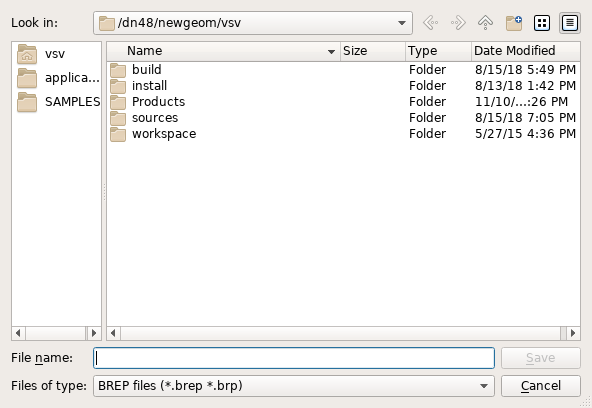
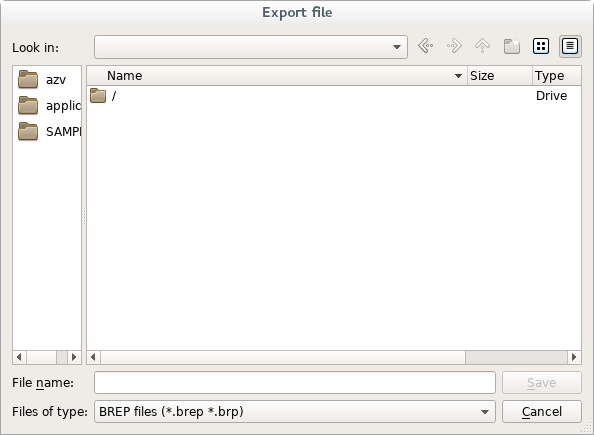
Issue #3145: Update Import/Export help pages

Changed region(s): [[0.0, 0.0, 1.0, 1.0]]

diff --git a/src/ExchangePlugin/doc/examples/export_part.py b/src/ExchangePlugin/doc/examples/export_part.py
@@ -1,0 +1,10 @@
+from salome.shaper import model
+
+model.begin()
+partSet = model.moduleDocument()
+Part_1 = model.addPart(partSet)
+Part_1_doc = Part_1.document()
+Cylinder_1 = model.addCylinder(Part_1_doc, model.selection("VERTEX", "PartSet/Origin"), model.selection("EDGE", "PartSet/OZ"), 5, 10)
+Box_1 = model.addBox(Part_1_doc, 10, 10, 10)
+Export_1 = model.exportPart(Part_1_doc, "~/box.shaperpart", [model.selection("SOLID", "Box_1_1")])
+model.end()

diff --git a/src/ExchangePlugin/doc/exportFeature.rst b/src/ExchangePlugin/doc/exportFeature.rst
@@ -3,12 +3,77 @@
 Export
 ======
 
-The  export feature allows exporting objects from the current study to an external file.
+The export feature allows exporting objects from the current study to an external file. The following sections show the different ways to export objects.
 
-It is possible to export objects to files in the following formats: BREP, STEP, IGES, XAO. To export objects to a file:
+Export PartSet
+--------------
 
-#. select in the Main Menu *Part - > Export* item  or
-#. click |export.icon| **Export** button in the toolbar.
+To export the full study in SHAPER native format (``*.shaper``) select in the Main Menu *File -> Export -> Part Set...* item.
+The **Export file** dialog will be opened:
+
+.. image:: images/ExportNativeFileDlg.png
+   :align: center
+	
+.. centered::
+   **Dialog box for export to SHAPER native format**
+
+Specify file name and press **Save** button to export the file. **Cancel** button cancels the operation.
+
+
+Export Part
+-----------
+
+It allows to export the specified results including the sequence of all operations which affect the selected objects.
+To export results in binary format (``*.shaperpart``) select in the Main Menu *File -> Export -> Part...* item.
+
+The following property panel will be opened:
+
+.. image:: images/ExportPart_panel.png
+   :align: center
+	
+.. centered::
+   **Export Part property panel**
+
+The file name and path can be defined in **Export file** field by direct input or browsing with **'...'** button, which opens **Export file** dialog box:
+
+.. image:: images/ExportPartFileDlg.png
+   :align: center
+	
+.. centered::
+   **Dialog box to export part of the model**
+
+Selection list in the property panel contains a list of exported objects which can be selected in a viewer or object browser.
+In case of the list is empty, all active results in the current Part will be exported.
+If the PartSet is active, only results (construction elements) of this PartSet may be selected for the export, but not results of Parts.
+
+*Note:* It is forbidden to export features that include references to external elements other than default elements (origin or main axes and planes).
+
+
+**Apply** button exports the file.
+  
+**Cancel** button cancels the operation.
+
+**TUI Command**:
+
+.. py:function:: model.exportPart(Part_doc, FileNameString, ObjectsList)
+
+    :param part: The current part object
+    :param string: The file name
+    :param list: A list of exporting objects, if necessary
+
+Result
+""""""
+
+The Result of operation is an exported file.
+
+**See Also** a sample TUI Script of :ref:`tui_export_part` operation.
+
+
+Export to CAD format
+--------------------
+
+It is possible to export objects to files in the following CAD-neutral formats: BREP, STEP, IGES, XAO.
+To export objects to a file select in the Main Menu *File -> Export -> To CAD  formats...* item.
 
 The following property panel will be opened:
 
@@ -24,7 +89,7 @@ In this panel, it is necessary to select desirable format of export file. It can
    :align: center
 	
 .. centered::
-   **Export file dialog box**
+   **Dialog box tp export in CAD-neutral format**
 
 Selection list in the property panel contains a list of exported objects which can be selected in a viewer or object browser.
 
@@ -39,6 +104,15 @@ Selection list in the property panel contains a list of exported objects which c
     :param part: The current part object
     :param string: The file name
     :param list: A list of exporting objects
+
+
+.. py:function:: model.exportToXAO(Part_doc, FileNameString, [ObjectsList, Author, GeometryName])
+
+    :param part: The current part object
+    :param string: The file name
+    :param list: A list of exporting objects, if necessary
+    :param string: The name of the author 
+    :param string: The name for the shape processed in GEOMETRY module
 
 Result
 """"""

diff --git a/src/ExchangePlugin/doc/importFeature.rst b/src/ExchangePlugin/doc/importFeature.rst
@@ -5,10 +5,63 @@ Import
 
 The Import feature allows importing an external file into a current study.
 
-It is possible to import files in the following formats: BREP, STEP, IGES, XAO. To import a file into active part:
+Import PartSet
+--------------
 
-#. select in the Main Menu *Part - > Import* item  or
-#. click |import.icon| **Import** button in the toolbar.
+To open a study previously saved in SHAPER native format, select in the Main Menu *File -> Import -> Part Set...* item.
+The current study will be closed, so the action dialog will be opened to choose whether the changes should be saved.
+After that the following open file dialog will be opened:
+
+.. image:: images/ImportPartFileDlg.png
+   :align: center
+	
+.. centered::
+   **Dialog box to open SHAPER native file**
+
+Select file and press **Open** button to load the file. **Cancel** button cancels the operation.
+
+
+Import Part
+-----------
+
+To import the previously stored file in the current part, select in the Main Menu *File -> Import -> Part...* item.
+
+The following property panel will be opened:
+
+.. image:: images/ImportPart_panel.png
+   :align: center
+	
+.. centered::
+   **Import Part property panel**
+
+In this panel it is possible to enter a file name directly or press **'...'** button and browse it with help of import file dialog box:
+
+.. image:: images/ImportPartFileDlg.png
+   :align: center
+	
+.. centered::
+   **Dialog box to import Part**
+
+The import will be performed within the active part. If no part is active, the possible targets to import will be proposed in **Import to** combobox, which contains the list of existing parts, PartSet or a new part creation option.
+  
+**Apply** button imports the file.
+  
+**Cancel** button cancels the operation.
+
+**TUI Command**:
+
+.. py:function:: model.importPart(Doc, FileNameString, [PrevFeature])
+
+    :param part: The current part object
+    :param string: A file name string
+    :param reference: The feature after which the imported entities should be inserted
+
+
+Import from CAD formats
+-----------------------
+
+It is possible to import files in the following CAD-neutral formats: BREP, STEP, IGES, XAO.
+To import a file into active part select in the Main Menu *File -> Import -> From CAD format...* item.
 
 The following property panel will be opened:
 
@@ -18,13 +71,15 @@ The following property panel will be opened:
 .. centered::
    **Import property panel**
 
+The **Import to** combobox provides the list of destinations (PartSet, existing Part or a new Part).
+
 In this panel it is possible to enter a file name directly or press **'...'** button and browse it with help of import file dialog box:
 
 .. image:: images/OpenFileDlg.png
    :align: center
 	
 .. centered::
-   **Import file dialog box**
+   **Dialog box to import CAD-neutral format**
   
 **Apply** button imports the file.
   

diff --git a/src/ExchangePlugin/doc/TUI_exportPart.rst b/src/ExchangePlugin/doc/TUI_exportPart.rst
@@ -1,0 +1,12 @@
+
+  .. _tui_export_part:
+
+Export File
+===========
+
+.. literalinclude:: examples/export_part.py
+    :linenos:
+    :language: python
+
+:download:`Download this script <examples/export_part.py>` 
+   
